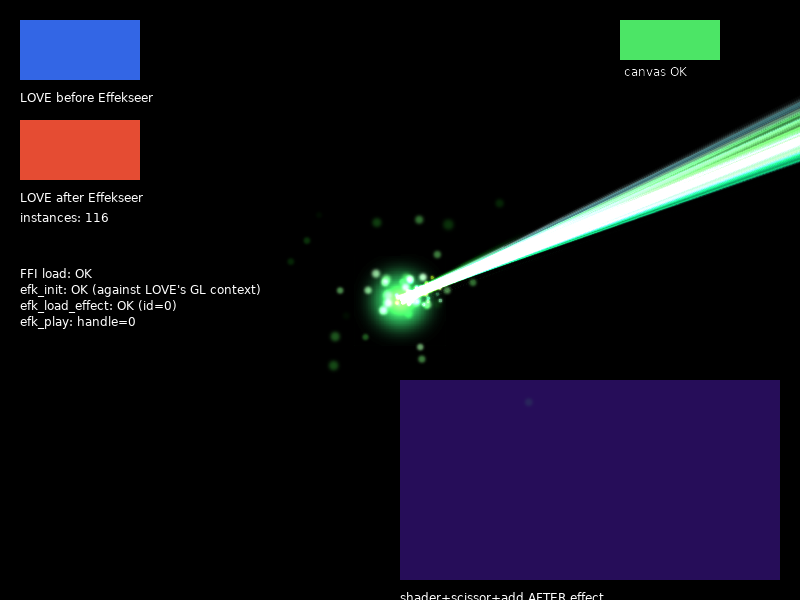
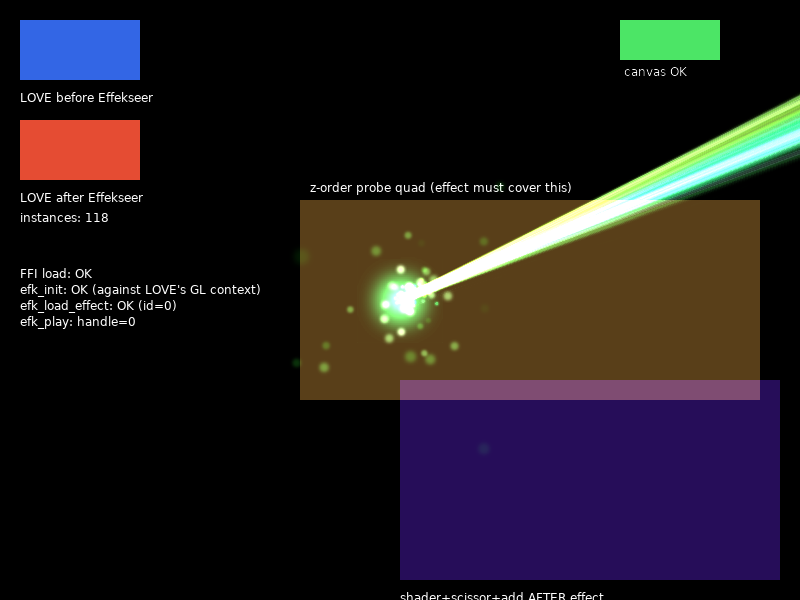
fix(effekseer): flush LOVE's batch before drawing effects (found via prior art)
Reviewed gittup/EffekseerForLove at the owner's suggestion. Not usable as a
dependency, but it caught a real bug in our spike.

LOVE batches draw calls. Without flushing before the effect draw, effects
render BEHIND everything LOVE queued that frame. Our spike had this bug and
the harness did not reveal it: the probe drew a text label between the quad
and the effect, and switching to the font texture makes LOVE flush anyway,
masking it. Reordering so the quad is the last LOVE call before efk_draw
reproduces it immediately.

Evidence committed both ways, same harness with FLUSH toggled:
  spike/spike-zorder-bug.png  effect completely hidden behind the quad
  spike/spike-result.png      effect correctly on top

Fix is one line: love.graphics.flushBatch() before efk_draw. Verified present
in LOVE 11.5. EffekseerForLove poked love.graphics.setColorMask to force a
flush because its target lacks flushBatch; we can call it directly.

Also taken from that project, recorded in roadmap S6.5.1c:
- a screen-space orthographic camera recipe (OrthographicRH then patch
  Values[3][0], Values[1][1], Values[3][1] for a top-left origin), which is
  the non-obvious part of step 2 and no longer needs deriving
- confirmation that their vertex-attrib-array reset is #ifdef __EMSCRIPTEN__
  only: love.js has no VAOs so Effekseer cannot restore one. On desktop the
  VAO restore covers attribute state, which is why our guard passed. The
[…]

Changed region(s): [[0.375, 0.15, 1.0, 0.69]]

diff --git a/docs/design/renderer-3d-roadmap.md b/docs/design/renderer-3d-roadmap.md
@@ -485,6 +485,49 @@ open items are the *decisions* (missing-DLL behaviour, effects-as-asset in
 SPEC §1.2), not technical unknowns. The dependency question is now a product
 call, not an engineering gamble.
 
+### 6.5.1c Prior art: `gittup/EffekseerForLove` (reviewed 30.07.2026)
+
+Not usable as a dependency, but it paid for itself in one finding.
+
+**Why not usable:**
+
+- Pinned to **Effekseer 1.60c2** (2021). Current is 1.7x. Effects authored in a
+  modern Effekseer editor are not guaranteed to load in a 1.60 runtime — which
+  matters here, since the whole point is authoring in current tooling.
+- It is a **Lua C module** (`require('effekseer')`), not FFI, so it links
+  against the Lua C API and couples to LOVE's LuaJIT ABI. Our shim's FFI
+  approach has strictly less coupling.
+- Built with **tup**, an unusual build system, and its documented targets are
+  Linux / macOS / love.js / cross-compile-to-macOS. **No native Windows build.**
+- Last commit May 2024.
+
+**What was worth taking:**
+
+1. **The batch-flush requirement — a real bug our spike had and did not
+   notice.** LOVE batches draw calls; without flushing before the effect draw,
+   effects render *behind* everything LOVE queued that frame. Reproduced and
+   fixed: `tools/effekseer/spike/spike-zorder-bug.png` vs `spike-result.png`.
+   LOVE 11.5 exposes `love.graphics.flushBatch()` directly (EffekseerForLove
+   pokes `setColorMask` to force a flush, because its target lacks it).
+2. **A screen-space orthographic camera recipe** for step 2 — build
+   `OrthographicRH(w, h, -512, 512)`, then set `Values[3][0] = -1`, negate
+   `Values[1][1]` and set `Values[3][1] = 1` to put the origin at top-left in
+   LOVE's coordinate system. This is the non-obvious part of §6.4 and is now
+   answered rather than needing derivation.
+3. **Confirmation, not a gap, on vertex attribute arrays.** They reset every
+   `GL_VERTEX_ATTRIB_ARRAY_ENABLED` around the draw — but only under
+   `#ifdef __EMSCRIPTEN__`, because love.js does not use VAOs, so Effekseer has
+   no previous VAO to restore. On desktop, restoring the VAO binding implicitly
+   restores attribute state, which is what §6.5.1b's guard does and why it
+   passed. **The condition under which our guard would break is now known: a GL
+   path without VAOs.** If a web build is ever wanted, that is the code to port.
+
+**Method note worth keeping.** The z-order probe initially appeared to pass,
+because it drew a text label between the quad and the effect and the font
+texture switch forced a flush anyway. Any intervening state change masks this
+bug. Draw-order tests must put the shape under test immediately before the
+foreign draw call, with nothing in between.
+
 ### 6.6 Why this ranks high
 
 Two properties no other item on this roadmap has:

diff --git a/tools/effekseer/README.md b/tools/effekseer/README.md
@@ -47,6 +47,32 @@ g++ -shared -O2 -o effekseer_shim.dll efk_shim.cpp \
 being a single self-contained file. As built it depends only on `KERNEL32`,
 `msvcrt` and `OPENGL32`.
 
+## The z-order trap (found via prior art, 30.07.2026)
+
+**LOVE batches draw calls. You must flush its batch before drawing effects, or
+they render behind everything LOVE queued that frame.**
+
+```lua
+love.graphics.flushBatch()   -- present in LOVE 11.5; call before efk_draw
+efk.efk_draw(view, proj)
+```
+
+Credit where due: this came from
+[`gittup/EffekseerForLove`](https://github.com/gittup/EffekseerForLove), which
+documents it in `src/wrap/EffectManager.cpp`. That project has no
+`flushBatch` available in its target and pokes `love.graphics.setColorMask`
+instead, which forces a flush as a side effect. On 11.5 the direct call
+exists, so use it.
+
+`spike/spike-zorder-bug.png` is the failure and `spike/spike-result.png` the
+fix, from the same harness with `FLUSH` toggled.
+
+**Note on how nearly this was missed.** The first probe appeared to pass — but
+it drew a text label between the quad and the effect, and switching to the font
+texture makes LOVE flush anyway, hiding the bug. Any state change that forces a
+batch flush will mask this. When testing draw ordering, the shape under test
+must be the **last** LOVE call before `efk_draw`.
+
 ## The GL state guard
 
 `GLStateGuard` in `efk_shim.cpp` saves and restores the program, VAO, array and
